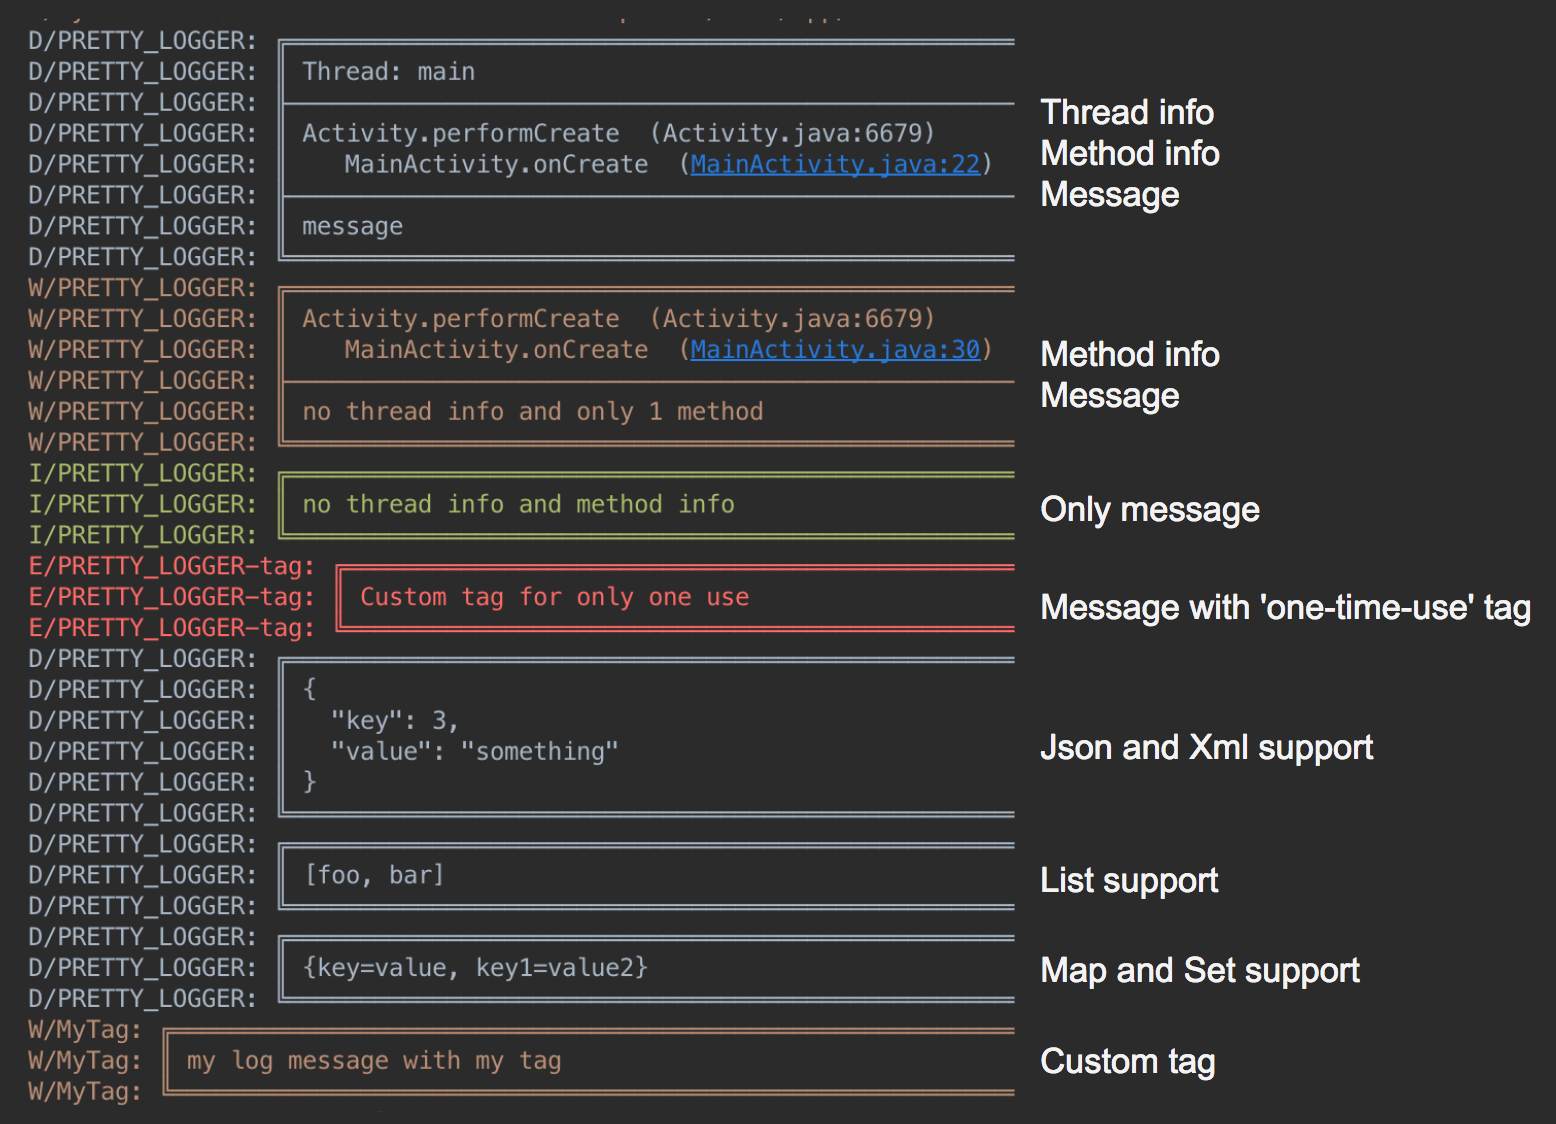
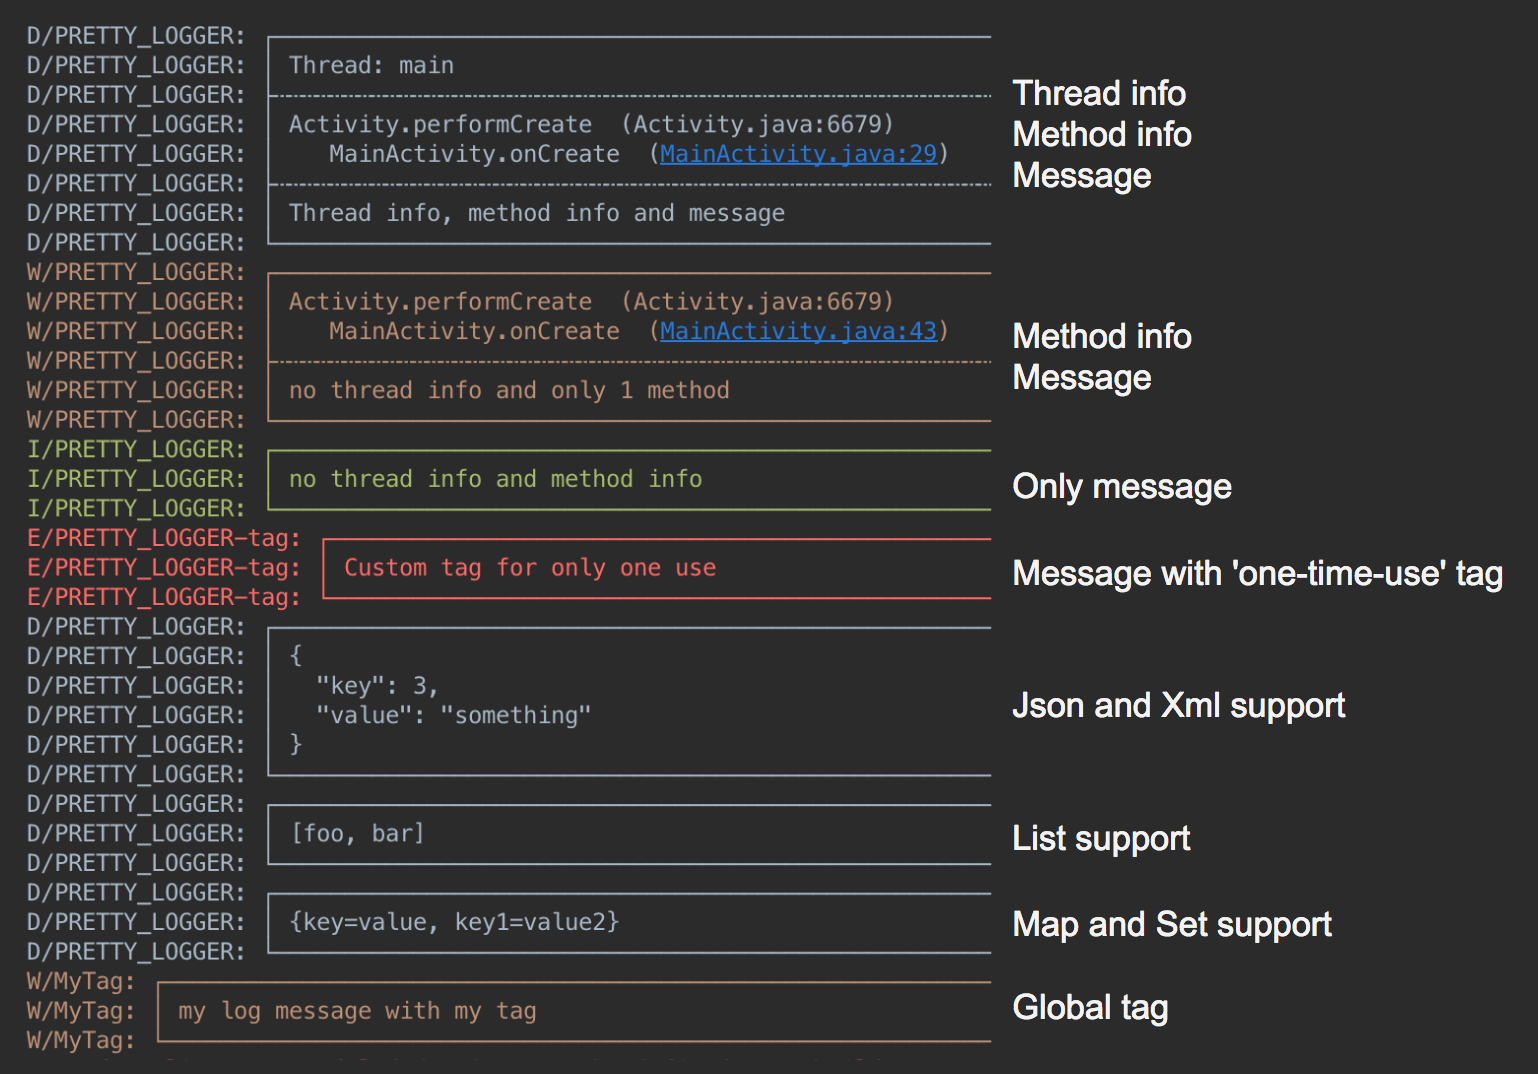
Update readme file based on new decoration and new version

diff --git a/README.md b/README.md
@@ -1,5 +1,5 @@
 [![Android Arsenal](https://img.shields.io/badge/Android%20Arsenal-Logger-brightgreen.svg?style=flat)](http://android-arsenal.com/details/1/1658) [![](https://img.shields.io/badge/AndroidWeekly-%23147-blue.svg)](http://androidweekly.net/issues/issue-147)
-[![Join the chat at https://gitter.im/orhanobut/logger](https://badges.gitter.im/Join%20Chat.svg)](https://gitter.im/orhanobut/logger?utm_source=badge&utm_medium=badge&utm_campaign=pr-badge&utm_content=badge) <a href="http://www.methodscount.com/?lib=com.orhanobut%3Alogger%3A1.15"><img src="https://img.shields.io/badge/Methods and size-165 | 12 KB-e91e63.svg"/></a> [![Build Status](https://travis-ci.org/orhanobut/logger.svg?branch=master)](https://travis-ci.org/orhanobut/logger)
+[![Join the chat at https://gitter.im/orhanobut/logger](https://badges.gitter.im/Join%20Chat.svg)](https://gitter.im/orhanobut/logger?utm_source=badge&utm_medium=badge&utm_campaign=pr-badge&utm_content=badge) <a href="http://www.methodscount.com/?lib=com.orhanobut%3Alogger%3A2.0.0"><img src="https://img.shields.io/badge/Methods and size-198 | 18 KB-e91e63.svg"/></a> [![Build Status](https://travis-ci.org/orhanobut/logger.svg?branch=master)](https://travis-ci.org/orhanobut/logger)
 
 <img align="right" src='https://github.com/orhanobut/logger/blob/master/art/logger-logo.png' width='128' height='128'/>
 
@@ -9,7 +9,7 @@ Simple, pretty and powerful logger for android
 ### Setup
 Download
 ```groovy
-compile 'com.orhanobut:logger:2.0.0'
+compile 'com.orhanobut:logger:2.1.0'
 ```
 
 Initialize
@@ -61,7 +61,7 @@ FormatStrategy formatStrategy = PrettyFormatStrategy.newBuilder()
   .methodCount(0)         // (Optional) How many method line to show. Default 2
   .methodOffset(7)        // (Optional) Hides internal method calls up to offset. Default 5
   .logStrategy(customLog) // (Optional) Changes the log strategy to print out. Default LogCat
-  .tag("My custom tag")   // (Optional) Custom tag for each log. Default PRETTY_LOGGER
+  .tag("My custom tag")   // (Optional) Global tag for every log. Default PRETTY_LOGGER
   .build();
 
 Logger.addLogAdapter(new AndroidLogAdapter(formatStrategy));
